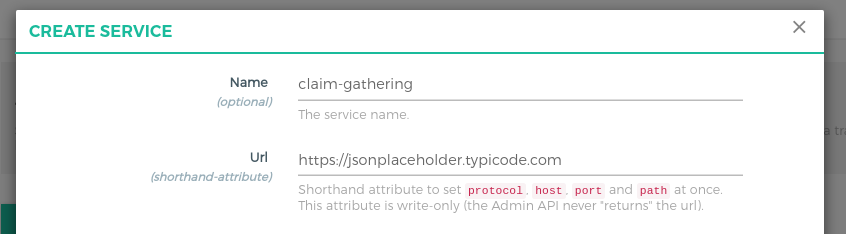
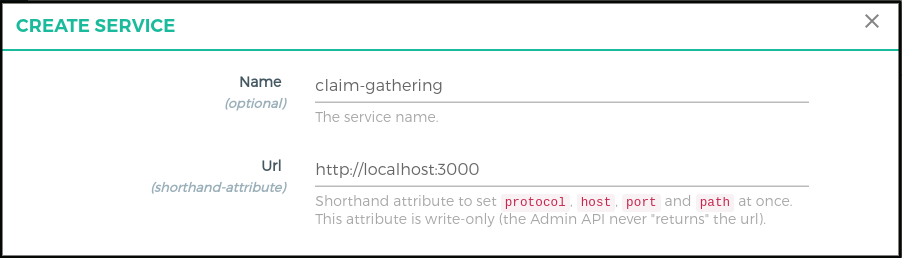
Update screenshots and configuration details

Changed region(s): [[0.0, 0.0, 1.0, 1.0], [0.1537, 0.6282, 0.8913, 0.8974], [0.2459, 0.2991, 0.8913, 0.5085]]

diff --git a/docs/source/tutorials/uma-claim-gathering-tutorial.md b/docs/source/tutorials/uma-claim-gathering-tutorial.md
@@ -16,13 +16,13 @@ In the demo, the user will be prompted to enter their city and state before bein
 
 ## Pre-requisites 
 
-- Gluu Gateway 4.0: This is our UMA Resource Server (RS), where policies are enforced, a.k.a. the Policy Enforcement Point (PEP). [Install Gluu Gateway](../installation.md)
+- Gluu Gateway 4.0: This is our UMA Resource Server (RS), where policies are enforced, a.k.a. the Policy Enforcement Point (PEP). [Install Gluu Gateway](../installation.md). [OXD Server](https://gluu.org/docs/oxd/4.0/) is a static APIs web application which will install during GG installation.
 
 - Gluu Server 4.0: This is our UMA Authorization Server (AS), where policies are stored and evaluated, a.k.a. the Policy Decision Point (PDP). [Install Gluu](https://gluu.org/docs/ce/4.0/installation-guide/install-ubuntu/)
 
 - Python CGI script demo app: This is our UMA Requesting Party (RqP), which will be making authentication and authorization requests on behalf of the user. Installation instructions [below](#demo-app-configuration-rqp)
 
-- Protected API: In our demo, we are using a demo Node.js App. 
+- Protected(Upstream) API: In our demo, we are using a demo Node.js App. Take Node.js demo from [here](https://github.com/GluuFederation/gluu-gateway/tree/version_4.0/gg-demo/node-api). 
 
 ## Gluu Gateway configuration (RS)
 
@@ -43,7 +43,7 @@ Applications and their ports:
 
 Register your upstream API as a Service. For more details, see the [Gluu UMA Auth and UMA PEP service docs](/plugin/gluu-uma-auth-pep/#service-level).
 
-We are using `https://jsonplaceholder.typicode.com` as the Upstream API, it is your application which you wanna add user authentication and authorization.
+We are using [`http://localhost:3000`](https://github.com/GluuFederation/gluu-gateway/tree/version_4.0/gg-demo/node-api) as the Upstream API, it is your application where you want to add UMA Claim gathering authorization.
 
 Follow these step to add Service using GG UI
  
@@ -51,7 +51,7 @@ Follow these step to add Service using GG UI
 - Click on **+ ADD NEW SERVICE** button
 - Fill in the following boxes:
     - **Name:** claim-gathering
-    - **URL:** https://jsonplaceholder.typicode.com
+    - **URL:** http://localhost:3000
 
 ![uma-cg-tutorial-1](../img/uma-cg-tutorial-1.png)
 
